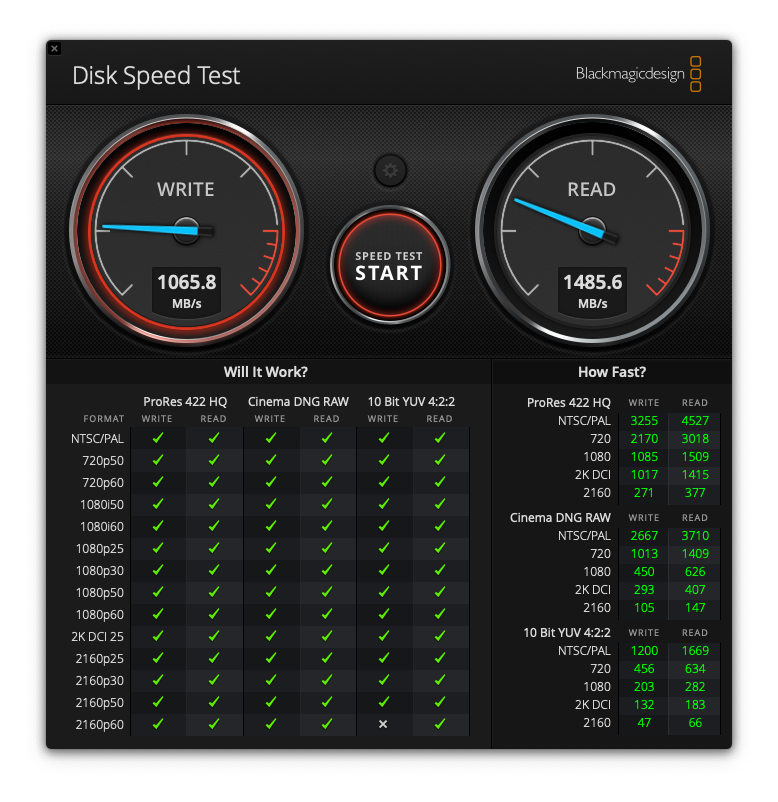
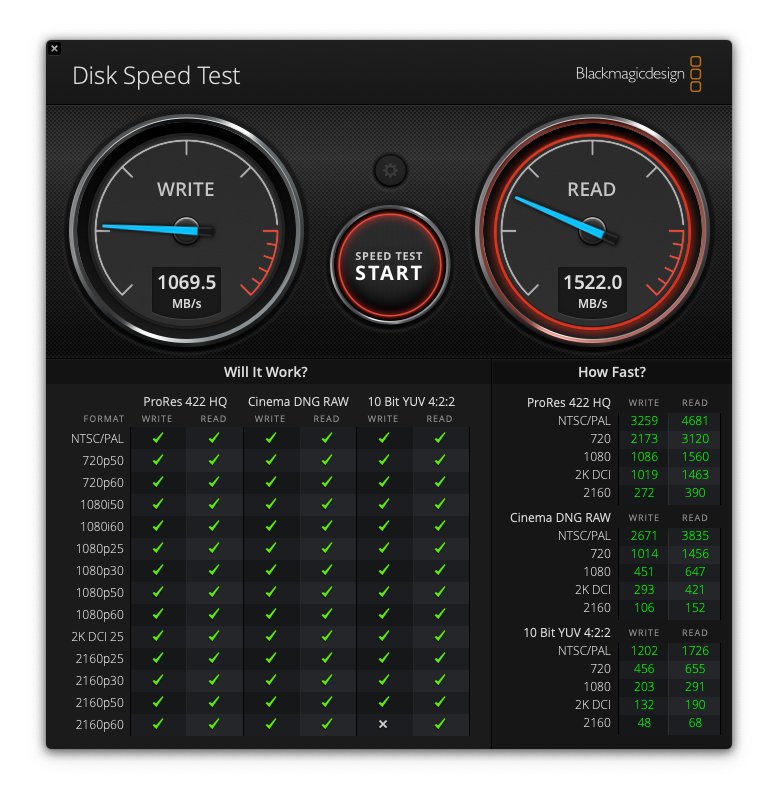
Update README.md

diff --git a/README.md b/README.md
@@ -103,6 +103,8 @@ Next make some tests in order to define the best frequency for you. I got a very
 - After you test throughfuly the settings and are comfortable with System stability, you can apply the launchd in order to set undervolt on boot: `./voltageshift buildlaunchd -225 0 -125` (remember to set the CPU and CPU cache values with your desired values)
 - There's some other parameters you can include on buildlaunchd, like run the utility every X minutes if your system is disabling undervolting after sleep, for example. I'm only running on boot and didn't have any issues so far. Read more at https://github.com/sicreative/VoltageShift 
 
+![](https://github.com/leocg/Hackintosh-Dell-G5-5590/raw/e4dd84265ea434a8f0049d8c65d94ba044548a93/UTIL/SCREENSHOTS%20PROOFS/VoltageShift.png)
+
 ## KNOWN ISSUES
 
 - Music.app don't work with DRM videos.
@@ -131,6 +133,38 @@ Next make some tests in order to define the best frequency for you. I got a very
 :white_check_mark: :warning: Apple Communications (Continuity, airdrop, etc) - Using Fenvi BCM94360NG (Original card didn't provide support)  
 :white_check_mark: :warning: Wi-Fi - Using Fenvi BCM94360NG (Original card don't work on macOS)    
 :white_check_mark: :warning: Thunderbolt 3 (can see device in Hackintosh but don't have any Thunderbolt peripheral to test)
+
+
+
+### SCREENSHOTS
+
+#### AirDrop
+
+![](https://github.com/leocg/Hackintosh-Dell-G5-5590/raw/e4dd84265ea434a8f0049d8c65d94ba044548a93/UTIL/SCREENSHOTS%20PROOFS/AIRDROP.png)
+
+
+
+#### Continuity
+
+![](https://github.com/leocg/Hackintosh-Dell-G5-5590/raw/e4dd84265ea434a8f0049d8c65d94ba044548a93/UTIL/SCREENSHOTS%20PROOFS/Continuity.png)
+
+
+
+#### Video Acceleration
+
+![](https://github.com/leocg/Hackintosh-Dell-G5-5590/raw/e4dd84265ea434a8f0049d8c65d94ba044548a93/UTIL/SCREENSHOTS%20PROOFS/HVEC%20Encoding%20Support.png)
+
+
+
+#### iMessage
+
+![](https://github.com/leocg/Hackintosh-Dell-G5-5590/raw/e4dd84265ea434a8f0049d8c65d94ba044548a93/UTIL/SCREENSHOTS%20PROOFS/iMessage.png)
+
+
+
+#### NMVe Disk Speed Test
+
+![](https://github.com/leocg/Hackintosh-Dell-G5-5590/raw/e4dd84265ea434a8f0049d8c65d94ba044548a93/UTIL/SCREENSHOTS%20PROOFS/NVMe%20DISK%20Speed%20Test.png)
 
 
 
